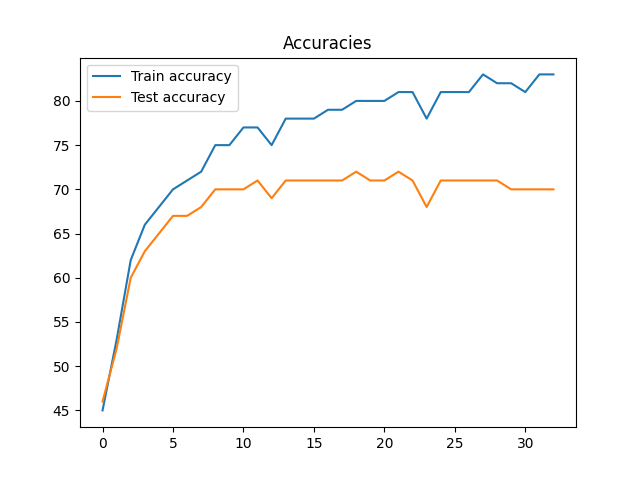
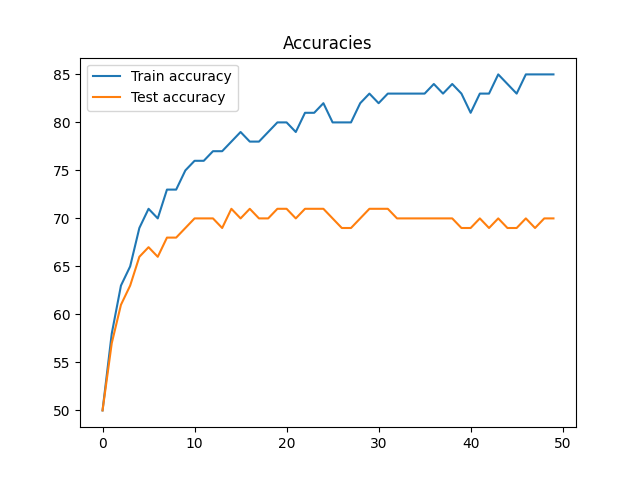
Report lr

diff --git a/vision-hw5/Report/Report.md b/vision-hw5/Report/Report.md
@@ -33,7 +33,47 @@ Using the layers proposed by [Karpathy](https://cs.stanford.edu/people/karpathy/
 This seems plastic enough to learn to classify better than LazyNet and BoringNet.
 But it does take around 4hs to train 200 epochs on Google Colab on CPU.
 
-## 50 Epochs default hiperparams
+## 50 epochs default hiperparams
 <img src="img/coolnet/basic/acc.png" />
 
-Training halted after 30 epochs as it seemed to be overfitting, although the test accuracy is much better than before at 70%.
+Training seemed to be overfitting, although the test accuracy is much better than before at 70%.
+
+## Learning rates
+
+### 50 epochs learning rate 10
+
+This broke completely, the network went to nan values very fast.
+
+### 50 epochs learning rate 0.1
+
+<img src="img/coolnet/lr 0.1/acc.png" />
+
+Test accuracy goes down when compared to the default lr of 0.01. 
+This might be because of 'skipping' over a region of lower loss, as the loss gets stuck around 1.2:
+
+<img src="img/coolnet/lr 0.1/loss.png" />
+
+Compared to default run with lr 0.01:
+
+<img src="img/coolnet/basic/loss.png" />
+
+### 50 epochs learning rate 0.01
+
+This is the default, see "50 epochs default hiperparams"
+
+### 50 epochs learning rate 0.0001
+
+Very steady progress, although very slow:
+
+<img src="img/coolnet/lr 0.0001/acc.png" />
+
+It never even reaches 70% test accuracy.
+
+### 0.01 seems best
+
+The learning rate 0.01 seems to reach the 70% test accuracy mark fast enough, while not skipping over big areas of low loss:
+
+<img src="img/coolnet/basic/loss.png" />
+
+Loss reaches ~0.6 which seems ok.
+
